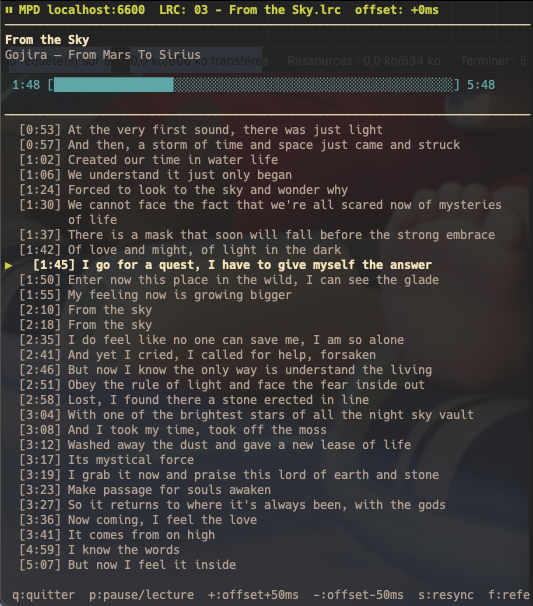
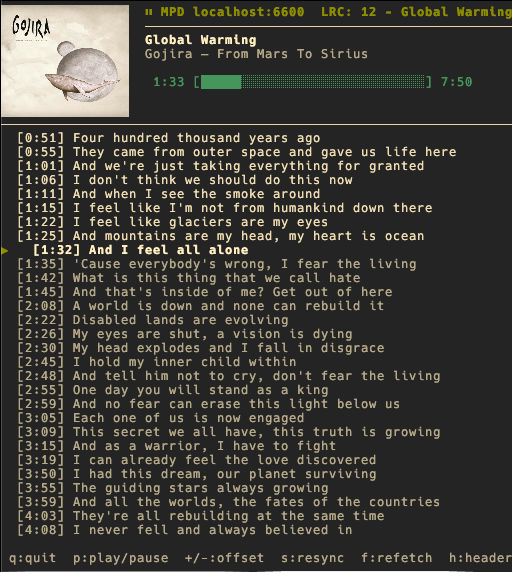
feat: click-to-seek + warm monochrome lyric colors (#3)
- Lyrics now use a faintly beige white gradient (redefined via init_color,
  falling back to the xterm grayscale ramp) instead of theme-dependent named
  colors — fixes the dull/washed-out look and the greenish "past" lines.
- Click a lyric line, or anywhere on the progress bar, to seek playback there.
- Catch Ctrl+C so quitting no longer dumps a KeyboardInterrupt traceback.
- README: new screenshot showing the album cover, plus a Kitty recommendation.

diff --git a/karaokay.py b/karaokay.py
@@ -400,6 +400,11 @@ class KaraokeUI:
         curses.curs_set(0)
         stdscr.nodelay(True)
         stdscr.timeout(100)
+        # Mouse: click a lyric line (or the progress bar) to seek playback.
+        curses.mousemask(curses.BUTTON1_PRESSED | curses.BUTTON1_CLICKED)
+        # Rebuilt every frame so a click can be mapped back to a seek target:
+        self._lyric_rows: dict[int, float] = {}          # screen row → lyric time (s)
+        self._prog_bar: Optional[tuple] = None           # (row, x0, width, duration)
         self._init_colors()
 
     # ── Colors ───────────────────────────────────────────────────────────────
@@ -407,10 +412,25 @@ class KaraokeUI:
     def _init_colors(self):
         curses.start_color()
         curses.use_default_colors()
+        # Lyrics use a monochrome, faintly warm (beige) white gradient rather
+        # than hues. When the terminal can redefine palette entries we set exact
+        # warm-white RGB triples (r,g,b on a 0..1000 scale; G≈0.95·R, B≈0.80·R
+        # gives the beige tint while keeping luminosity ≈ R). Otherwise we fall
+        # back to the neutral xterm grayscale ramp, then the base palette.
+        LYRIC_ACTIVE, LYRIC_PAST, LYRIC_UPCOMING = 16, 17, 18  # custom RGB slots
+        if curses.can_change_color() and curses.COLORS > LYRIC_UPCOMING:
+            curses.init_color(LYRIC_ACTIVE,   1000, 950, 800)  # current  — warm white
+            curses.init_color(LYRIC_PAST,      933, 886, 746)  # sung     — near-white beige
+            curses.init_color(LYRIC_UPCOMING,  737, 700, 590)  # upcoming — light warm gray
+            active_fg, past_fg, upcoming_fg = LYRIC_ACTIVE, LYRIC_PAST, LYRIC_UPCOMING
+        elif curses.COLORS >= 256:
+            active_fg, past_fg, upcoming_fg = 231, 255, 250  # neutral grayscale fallback
+        else:
+            active_fg, past_fg, upcoming_fg = curses.COLOR_WHITE, curses.COLOR_WHITE, 7
         # (foreground, background)
-        curses.init_pair(1, curses.COLOR_WHITE,   -1)  # active
-        curses.init_pair(2, curses.COLOR_CYAN,    -1)  # past
-        curses.init_pair(3, 8,                    -1)  # upcoming (gray)
+        curses.init_pair(1, active_fg,            -1)  # active   — brightest, pure white
+        curses.init_pair(2, past_fg,              -1)  # past     — already sung, near-white
+        curses.init_pair(3, upcoming_fg,          -1)  # upcoming — light gray
         curses.init_pair(4, curses.COLOR_GREEN,   -1)  # info
         curses.init_pair(5, curses.COLOR_YELLOW,  -1)  # warning
         curses.init_pair(6, curses.COLOR_RED,     -1)  # error
@@ -496,6 +516,8 @@ class KaraokeUI:
                     self.fetch_attempted.clear()
                     self.fetch_state = None
                 self.last_song = None
+            elif key == curses.KEY_MOUSE:
+                self._handle_mouse()
             elif key == curses.KEY_RESIZE:
                 self.stdscr.clear()
                 self._reset_cover()
@@ -535,6 +557,34 @@ class KaraokeUI:
                 self.client.pause(0)
             else:
                 self.client.play()
+        except Exception:
+            self.client = None
+
+    def _handle_mouse(self):
+        try:
+            _id, mx, my, _z, bstate = curses.getmouse()
+        except curses.error:
+            return
+        if not (bstate & (curses.BUTTON1_PRESSED | curses.BUTTON1_CLICKED)):
+            return
+        # Progress bar → seek to the clicked fraction of the track.
+        if self._prog_bar:
+            brow, x0, width, dur = self._prog_bar
+            if my == brow and x0 <= mx < x0 + width and dur > 0:
+                frac = (mx - x0 + 0.5) / width
+                self._seek_to_time(max(0.0, min(1.0, frac)) * dur)
+                return
+        # Lyric line → seek so that line becomes the current one. Undo the
+        # display offset, since the active line is picked on elapsed + offset.
+        t = self._lyric_rows.get(my)
+        if t is not None:
+            self._seek_to_time(max(0.0, t - self.offset / 1000.0))
+
+    def _seek_to_time(self, seconds: float):
+        if not self.client:
+            return
+        try:
+            self.client.seekcur(seconds)
         except Exception:
             self.client = None
 
@@ -644,6 +694,9 @@ class KaraokeUI:
         self.stdscr.erase()
 
         row = 0
+        # Rebuilt this frame; consumed by _handle_mouse on the next click.
+        self._lyric_rows = {}
+        self._prog_bar = None
 
         elapsed_raw = float(status.get("elapsed", 0))
         duration    = float(status.get("duration") or song.get("time") or 0) or 1
@@ -707,12 +760,16 @@ class KaraokeUI:
             self._addstr(row, left, info[:avail_w], curses.color_pair(3)); row += 1
 
             row += 1
+            elapsed_str = fmt_time(elapsed_raw)
             pct         = min(1.0, elapsed_raw / duration)
             bar_w       = max(1, avail_w - 18)
             filled      = int(bar_w * pct)
             bar = "█" * filled + "░" * (bar_w - filled)
-            prog_line   = f" {fmt_time(elapsed_raw)} [{bar}] {fmt_time(duration)}"
+            prog_line   = f" {elapsed_str} [{bar}] {fmt_time(duration)}"
             self._addstr(row, left, prog_line[:avail_w], curses.color_pair(7))
+            # Remember the bar's on-screen span so a click can seek into it.
+            # prog_line = " <elapsed> [<bar>] …" → bar starts len(elapsed)+3 in.
+            self._prog_bar = (row, left + len(elapsed_str) + 3, bar_w, duration)
             row += 1
 
             # — Separator (full width, below the cover if any) ——————————
@@ -766,12 +823,15 @@ class KaraokeUI:
                 lrow = row + i
                 if lrow >= h - 1:
                     break
+                self._lyric_rows[lrow] = self.lyrics[abs_i].time
                 if abs_i == active:
                     attr = curses.color_pair(1) | curses.A_BOLD
                     if is_first:
                         self._addstr(lrow, 0, "▶ ", curses.color_pair(4) | curses.A_BOLD)
+                elif abs_i < active:
+                    attr = curses.color_pair(2)  # already sung → cyan
                 else:
-                    attr = curses.color_pair(3)
+                    attr = curses.color_pair(3)  # upcoming → light gray
                 indent_x = 4 if abs_i == active else 2
                 self._addstr(lrow, indent_x, text[: w - indent_x], attr)
 
@@ -840,7 +900,10 @@ def main():
     if not args.lyrics_dir:
         args.lyrics_dir = [os.path.expanduser("~/.lyrics")]
 
-    curses.wrapper(lambda s: KaraokeUI(s, args).run())
+    try:
+        curses.wrapper(lambda s: KaraokeUI(s, args).run())
+    except KeyboardInterrupt:
+        pass  # Ctrl+C: curses.wrapper has already restored the terminal
 
 
 if __name__ == "__main__":

diff --git a/README.md b/README.md
@@ -14,7 +14,9 @@
 
 A minimalist curses-based karaoke client that follows whatever MPD is playing and renders timed lyrics (`.lrc`) line by line, with auto-fetch when a track has no local lyrics file.
 
-![karaokay in action](docs/screenshot.png)
+![karaokay in action, with album cover, running in Kitty](docs/screenshot.png)
+
+> **Tip:** for the best rendering — crisp album covers via the Kitty graphics protocol and vivid, theme-aware colors — run karaokay in [Kitty](https://sw.kovidgoyal.net/kitty/). Ghostty and WezTerm also support crisp covers; other terminals fall back gracefully (see [Album cover](#album-cover)).
 
 ---
 
@@ -142,7 +144,7 @@ When auto-fetch is enabled and no local file is found, `syncedlyrics` is queried
 ## Notes
 
 - The Musixmatch provider in `syncedlyrics` occasionally returns HTTP 401 — those log lines are silenced by default; other providers (LrcLib, NetEase) keep working transparently.
-- Lyrics rendering is colorized: dim for past/upcoming lines, bold white for the active line, with a `▶` cursor in front.
+- Lyrics rendering is colorized: cyan for already-sung lines, light gray for upcoming ones, and bold white for the active line, with a `▶` cursor in front. Exact hues come from your terminal's ANSI palette, so they follow your theme (Kitty recommended).
 
 ---
 
